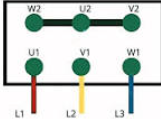
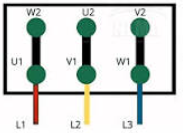
descripcion

diff --git a/static/js/motor.js b/static/js/motor.js
@@ -26,7 +26,7 @@ document.getElementById("connectionMode")
 /* CAMBIAR IMAGEN */
 
 document.getElementById("connectionImage")
-.src="/static/img/star.png"
+.src="/static/img/estrella.png"
 
 log("Motor configurado en ESTRELLA")
 
